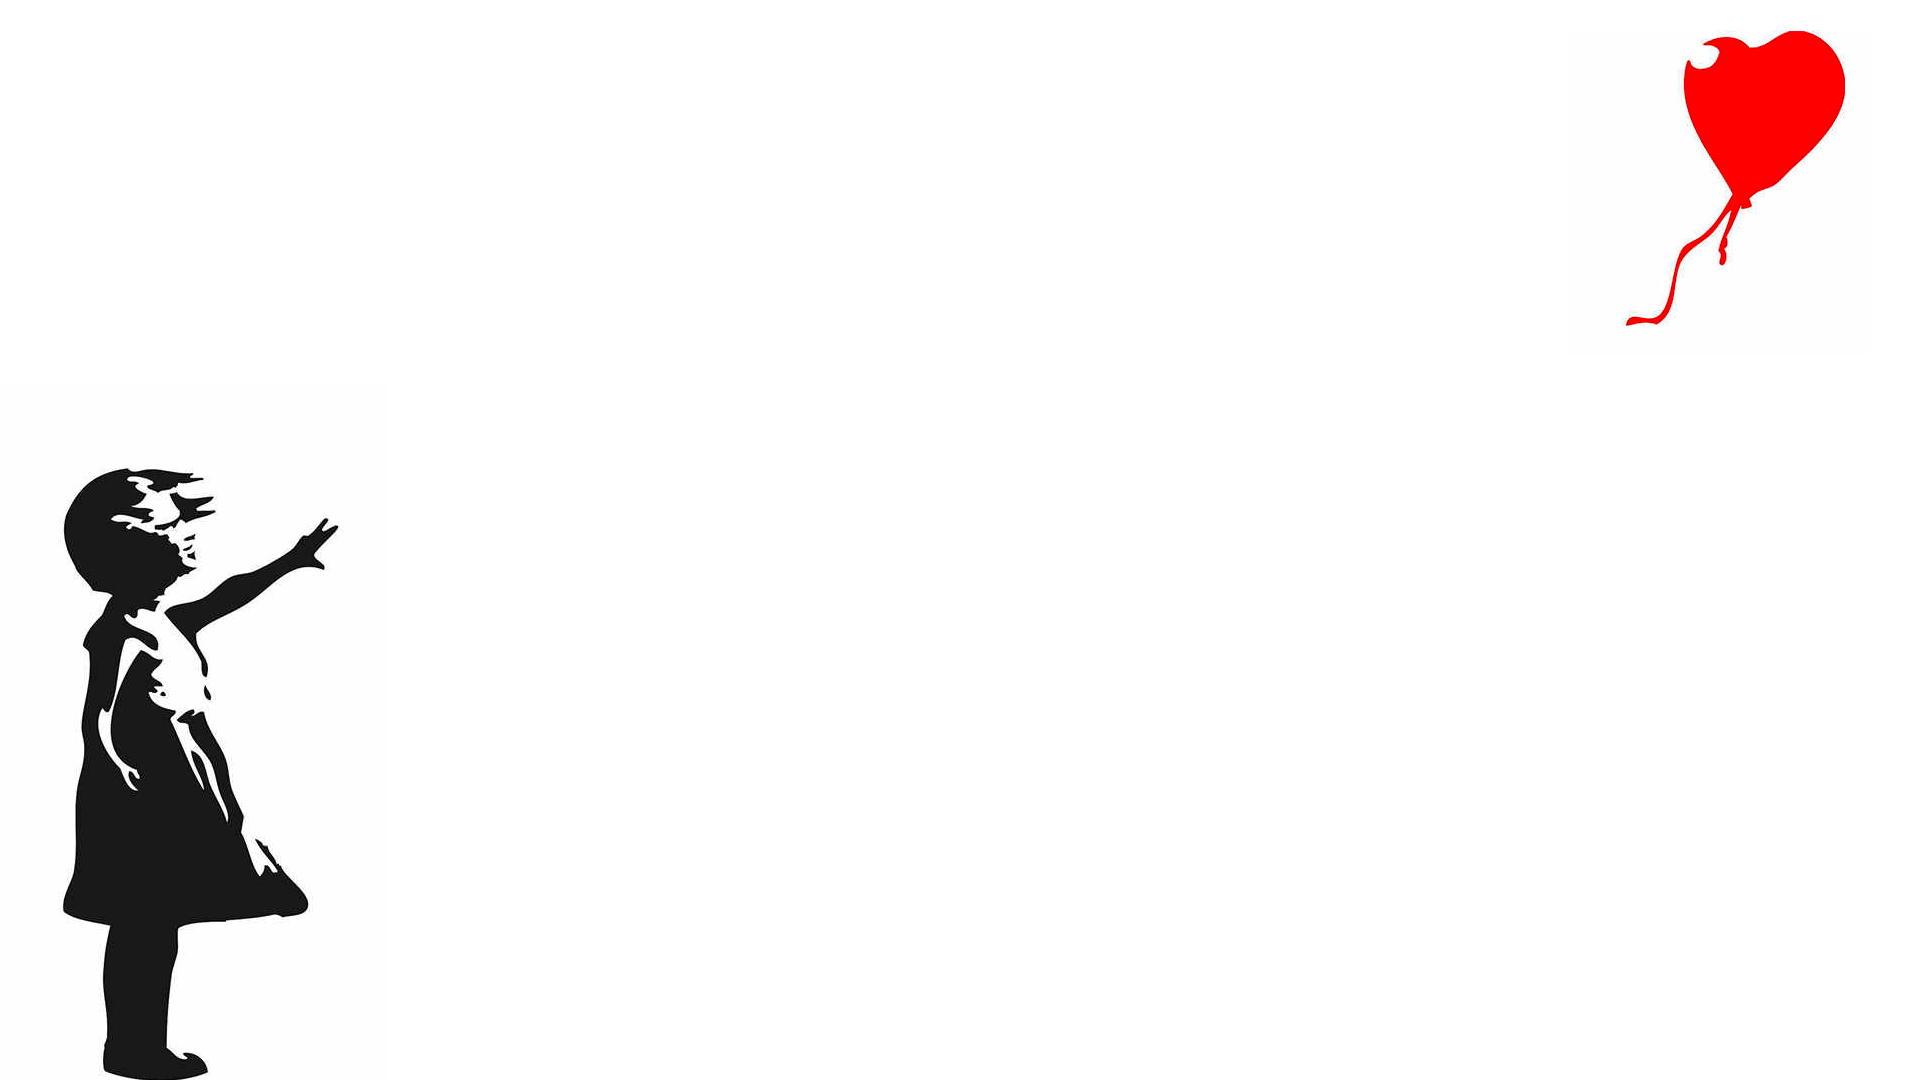
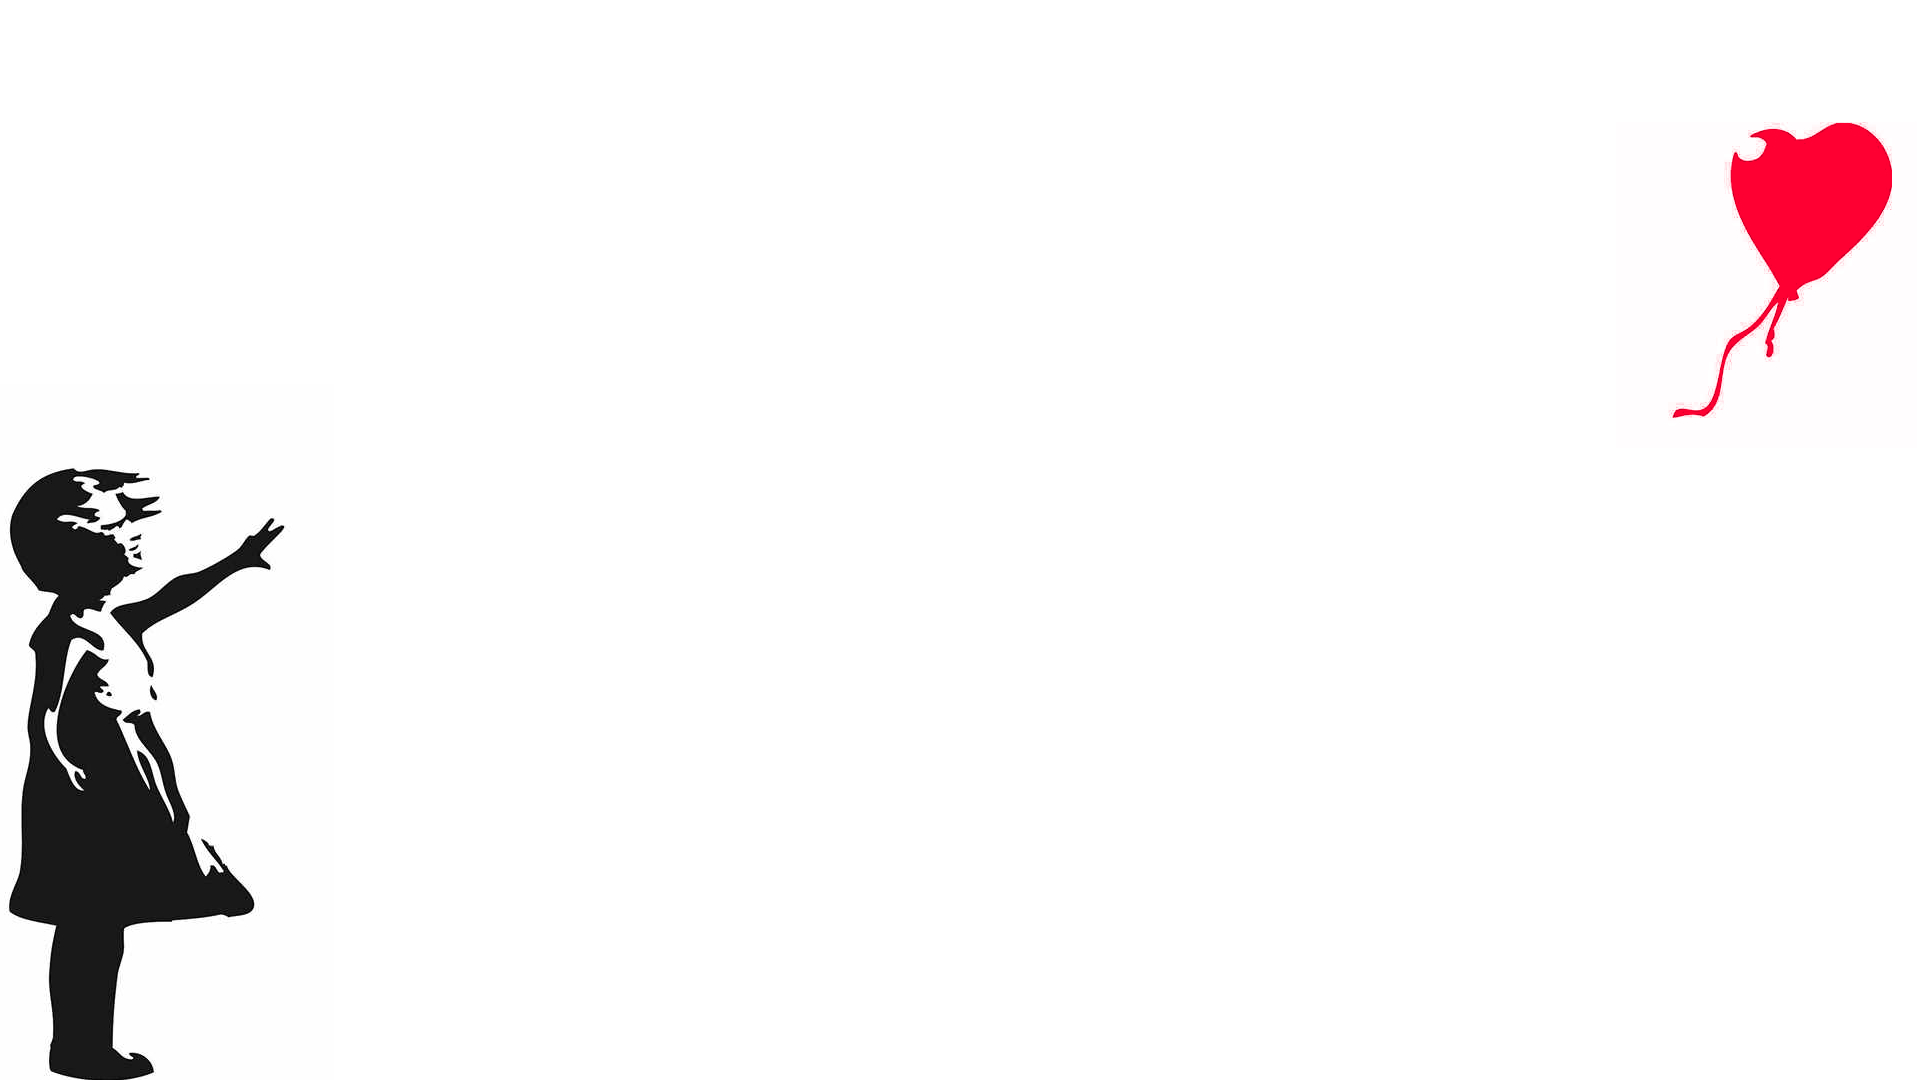
added background

Changed region(s): [[0.0, 0.4278, 0.1875, 1.0], [0.875, 0.0306, 1.0, 0.3972], [0.8438, 0.275, 0.875, 0.3056]]

diff --git a/src/components/search/searchResults.js b/src/components/search/searchResults.js
@@ -68,46 +68,48 @@ class Search extends React.Component {
     // console.log(search)
     console.log('state', this.state)
     return (
-      <div className="container">
-        <div className="row">
-          <div className="input-field col s12 center-align">
-            <h6 htmlFor="search">Search</h6>
-            <input
-              id='search'
-              className='input'
-              name="search"
-              placeholder="Search names, artists, categories"
-              onChange={this.handleChange}
-              value={data.search || ''}
-            />
-          </div>
+      <div className={this.state.searchResults && this.state.searchResults.length < 4 ? 'home full-height' : 'home'}>
+        <div className="container">
           <div className="row">
-            <div className="col">
-              {this.state.searchResults && this.state.searchResults.slice(0).reverse().map(searchResult => (
-                <Link key={searchResult.id} to={`/spots/${searchResult.id}`}>
-                  <div className="col s12 m6 l4">
-                    <div className="card hoverable">
-                      <div className="card-image">
-                        <img src={searchResult.images[0].path} />
-                        <span className="card-title">{searchResult.name}</span>
-                      </div>
-                      <div className="card-content black-text">
-                        <div>{searchResult.artists.map((artist, i) => (
-                          <h6 key={i}>By {artist.name}</h6>))}
-                        <br />
-                        <span><p><strong>Categories:</strong><br />
-                          <span>{searchResult.categories.map((category, i) => (
-                            <span key={i}>{category.name} / </span>))}
+            <div className="input-field col s12 center-align">
+              <h5 htmlFor="search">Search</h5>
+              <input
+                id='search'
+                className='input'
+                name="search"
+                placeholder="Search names, artists, categories"
+                onChange={this.handleChange}
+                value={data.search || ''}
+              />
+            </div>
+            <div className="row">
+              <div className="col">
+                {this.state.searchResults && this.state.searchResults.slice(0).reverse().map(searchResult => (
+                  <Link key={searchResult.id} to={`/spots/${searchResult.id}`}>
+                    <div className="col s12 m6 l4">
+                      <div className="card hoverable">
+                        <div className="card-image">
+                          <img src={searchResult.images[0].path} />
+                          <span className="card-title">{searchResult.name}</span>
+                        </div>
+                        <div className="card-content black-text">
+                          <div>{searchResult.artists.map((artist, i) => (
+                            <h6 key={i}>By {artist.name}</h6>))}
+                          <br />
+                          <span><p><strong>Categories:</strong><br />
+                            <span>{searchResult.categories.map((category, i) => (
+                              <span key={i}>{category.name} / </span>))}
+                            </span>
+                          </p>
                           </span>
-                        </p>
-                        </span>
-                        <br />
+                          <br />
+                          </div>
                         </div>
                       </div>
                     </div>
-                  </div>
-                </Link>
-              ))}
+                  </Link>
+                ))}
+              </div>
             </div>
           </div>
         </div>

diff --git a/src/components/spots/spotNew.js b/src/components/spots/spotNew.js
@@ -131,24 +131,28 @@ class SpotNew extends React.Component {
     console.log(this.state)
 
     return (
-      <div className="container">
+      <div className="home full-height">
         <div className="container">
           <div className="container">
-            <h2>New Spot</h2>
-            <SpotForm
-              updateState={this.updateState}
-              handleChange={this.handleChange}
-              handleSubmit={this.handleSubmit}
-              handleSelectArtist={this.handleSelectArtist}
-              handleSelectCategory={this.handleSelectCategory}
-              data={this.state.data}
-              categories={this.state.categories}
-              artists={this.state.artists}
-              errors={this.state.errors}
-              openModal={this.openModal}
-              image={this.state.image}
-            />
-            <br />
+            <div className="container">
+              <div className="row">
+                <h2 className="col s12">New Spot</h2>
+                <SpotForm
+                  updateState={this.updateState}
+                  handleChange={this.handleChange}
+                  handleSubmit={this.handleSubmit}
+                  handleSelectArtist={this.handleSelectArtist}
+                  handleSelectCategory={this.handleSelectCategory}
+                  data={this.state.data}
+                  categories={this.state.categories}
+                  artists={this.state.artists}
+                  errors={this.state.errors}
+                  openModal={this.openModal}
+                  image={this.state.image}
+                />
+                <br />
+              </div>
+            </div>
           </div>
         </div>
       </div>

diff --git a/src/components/home.js b/src/components/home.js
@@ -41,18 +41,20 @@ class Home extends React.Component {
     console.log('state', this.state)
     return(
       <div className="home">
-        <div className="container">
-          <h2 className="center-align">Street Art Near You</h2>
+        <div className="container full-height">
           <div className="row">
-            <br />
-            {this.state.points &&
-              <Map
-                center={this.mapCenter}
-                points={this.state.points}
-                locationlat={this.state.data.locationlat}
-                locationlon={this.state.data.locationlon}
-              />
-            }
+            <h2 className="center-align col s12">Street Art Near You</h2>
+            <div className="row">
+              <br />
+              {this.state.points &&
+                <Map
+                  center={this.mapCenter}
+                  points={this.state.points}
+                  locationlat={this.state.data.locationlat}
+                  locationlon={this.state.data.locationlon}
+                />
+              }
+            </div>
           </div>
         </div>
       </div>

diff --git a/src/style.scss b/src/style.scss
@@ -71,12 +71,22 @@ strong {
 }
 
 .home {
-    // background-image: url('assets/background.jpg');
+    background-image: url('assets/background.jpg');
     // background-color: red;
     -webkit-background-size: cover;
     -moz-background-size: cover;
     -o-background-size: cover;
     background-size: cover;
-    background-position: left;
-    height: 92.9vh;
+    background-position: center;
+    background-repeat: no-repeat;
+    // height: 92.9vh;
+    background-attachment: fixed;
+}
+
+.full-height {
+  height: 92.9vh;
+}
+
+.no-top-margin {
+  margin: 30px;
 }

diff --git a/webpack.config.js b/webpack.config.js
@@ -15,7 +15,8 @@ module.exports = {
     rules: [
       { test: /\.js$/, loader: 'babel-loader', exclude: /node_modules/ },
       { test: /\.css$/, loader: ['style-loader', 'css-loader'] },
-      { test: /\.s(a|c)ss$/, loader: ['style-loader', 'css-loader', 'sass-loader'] }
+      { test: /\.s(a|c)ss$/, loader: ['style-loader', 'css-loader', 'sass-loader'] },
+      { test: /\.(png|jpg|JPG|jpeg|gif|svg)$/, use: ['url-loader?limit=25000'] }
     ]
   },
   devServer: {
